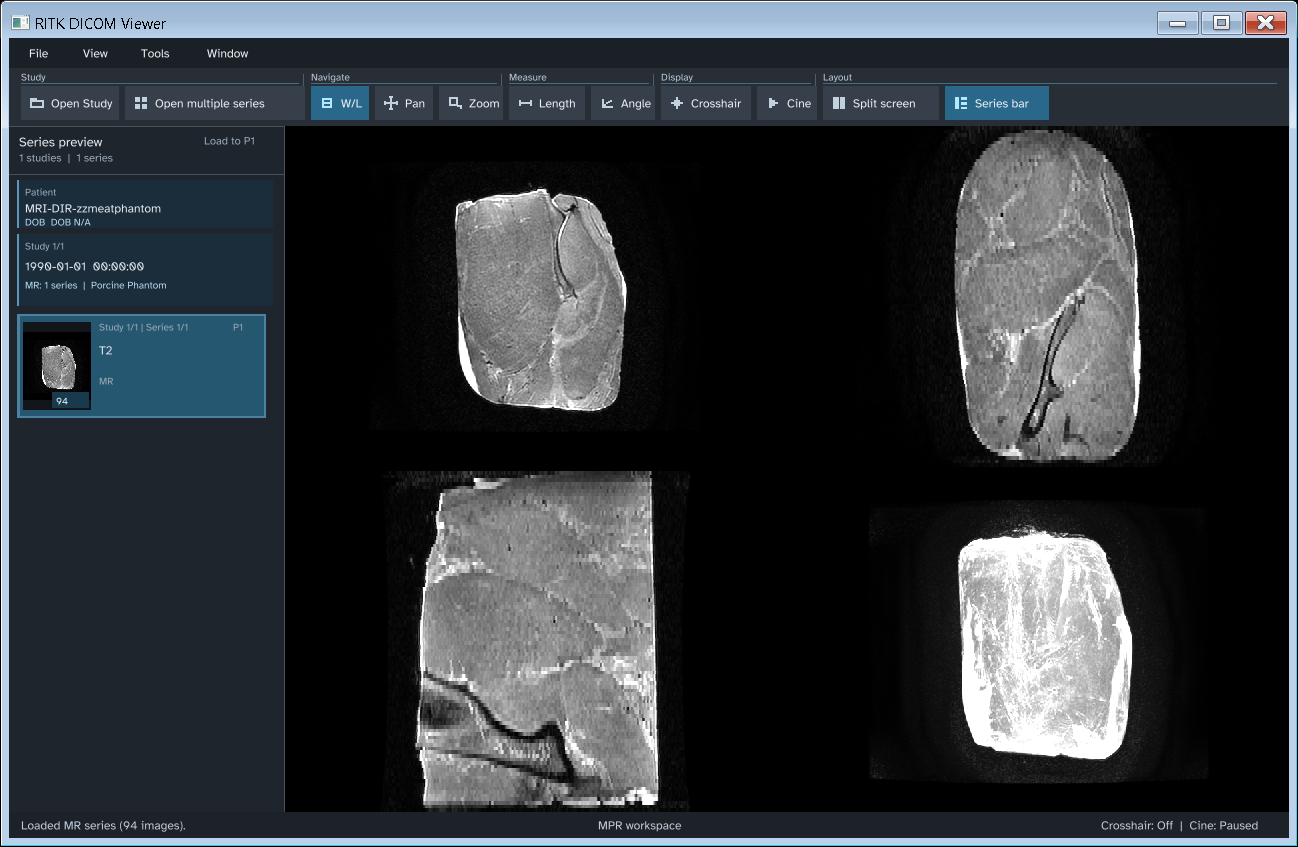
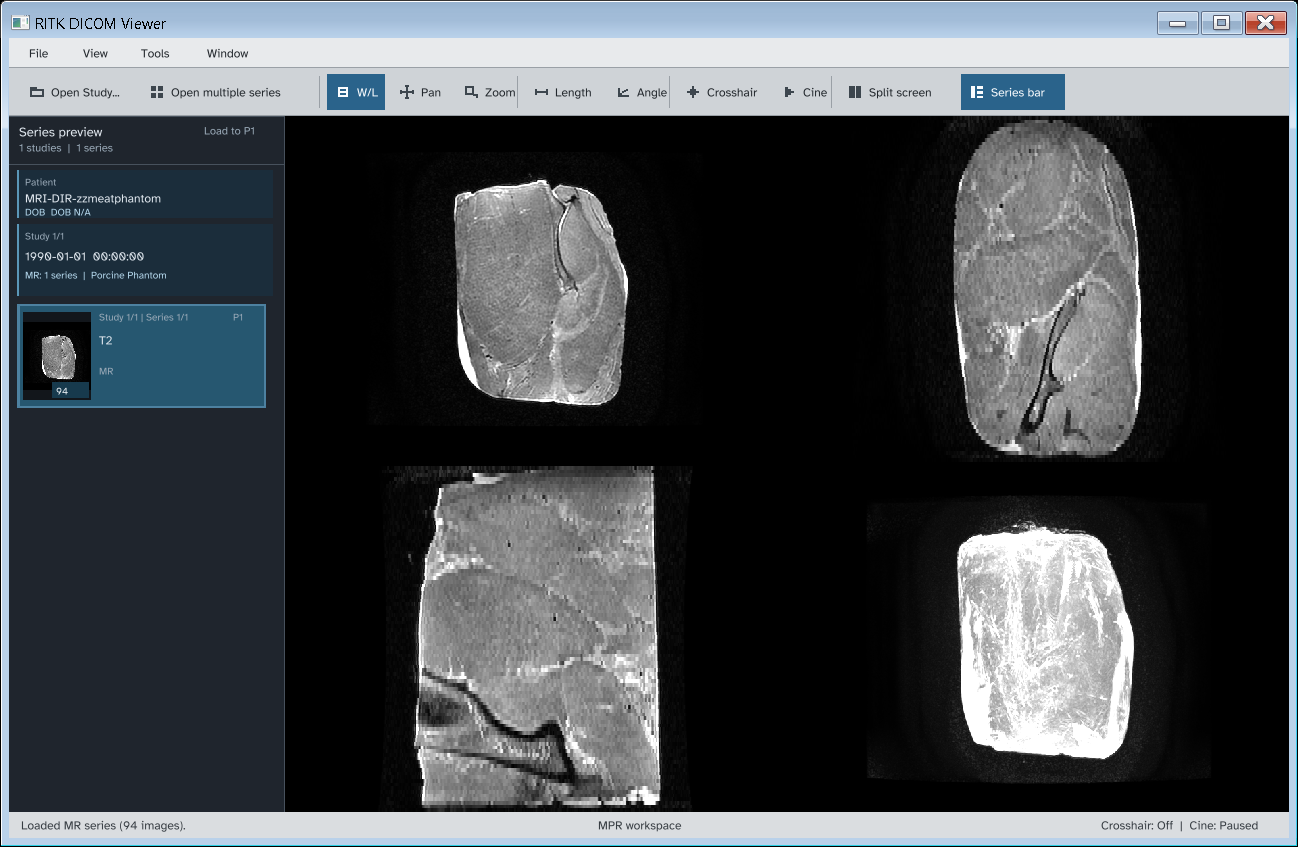
docs(ritk-snap): Capture RadiAnt clone workflows
Item: RITK-SNAP-WINDOW-CONTROLS-001

diff --git a/scripts/tests/test_manual_provenance.py b/scripts/tests/test_manual_provenance.py
@@ -110,6 +110,9 @@ class ManualImageProvenanceTests(unittest.TestCase):
                 )
                 self.assertEqual(output["encoding"], "lossless WebP")
                 self.assertTrue(output["decoded_rgba_byte_equal_to_source_capture"])
+                self.assertEqual(runtime["process_returncode"], 0)
+                self.assertRegex(source_capture["sha256"], r"\A[0-9a-f]{64}\Z")
+                self.assertGreater(source_capture["bytes"], 0)
                 self.assertEqual(
                     source_capture["encoding"],
                     "PNG captured from the live native application window",
@@ -128,8 +131,20 @@ class ManualImageProvenanceTests(unittest.TestCase):
                     "scripts/python_native_capture.py",
                 )
                 self.assertEqual(runtime["ritk_pull_request"], "ryancinsight/ritk#676")
+                self.assertRegex(runtime["ritk_revision"], r"\A[0-9a-f]{40}\Z")
+                self.assertRegex(runtime["ritk_tree"], r"\A[0-9a-f]{40}\Z")
                 self.assertEqual(
                     runtime["capture_utility"]["repository"], "ryancinsight/metis"
+                )
+                self.assertRegex(
+                    runtime["capture_utility"]["file_revision"],
+                    r"\A[0-9a-f]{40}\Z",
+                )
+                self.assertRegex(
+                    runtime["capture_utility"]["sha256"], r"\A[0-9a-f]{64}\Z"
+                )
+                self.assertRegex(
+                    runtime["capture_utility"]["git_blob"], r"\A[0-9a-f]{40}\Z"
                 )
                 self.assertEqual(len(runtime["executable_sha256"]), 64)
                 self.assertGreater(runtime["executable_bytes"], 0)
@@ -138,7 +153,7 @@ class ManualImageProvenanceTests(unittest.TestCase):
                     "View",
                     "Tools",
                     "Window",
-                    "Open Study",
+                    "Open Study...",
                     "Open multiple series",
                     "W/L",
                     "Pan",
@@ -154,16 +169,33 @@ class ManualImageProvenanceTests(unittest.TestCase):
                     expected_controls.extend(["Panel maximize", "Panel close"])
                 expected_controls.extend(["Series preview", "Load to P1"])
                 self.assertEqual(output["visible_controls"], expected_controls)
-                self.assertEqual(
-                    output["toolbar_groups"],
-                    ["Study", "Navigate", "Measure", "Display", "Layout"],
-                )
+                self.assertEqual(output["toolbar_divider_count"], 4)
                 self.assertEqual(output["panels"], panels)
+                self.assertEqual(len(dataset["series"]), series_count)
+                self.assertEqual(
+                    sum(series["instances"] for series in dataset["series"]),
+                    instance_count,
+                )
+                series_uids = [
+                    series["series_instance_uid"] for series in dataset["series"]
+                ]
+                self.assertEqual(len(set(series_uids)), series_count)
+                self.assertEqual(
+                    [series["panel"] for series in dataset["series"]],
+                    [f"P{index}" for index in range(1, series_count + 1)],
+                )
                 if series_count > 1:
                     self.assertIn("--series-instance-uid", runtime["command"])
                     self.assertIn("--compare-series-instance-uid", runtime["command"])
                     self.assertNotIn("input_events", runtime)
                     self.assertIn("two independent image panels", output["visual_scope"])
+                    self.assertEqual(
+                        [
+                            (series["modality"], series["instances"])
+                            for series in dataset["series"]
+                        ],
+                        [("MR", 94), ("CT", 409)],
+                    )
                 if output["panel_actions_visible"]:
                     self.assertEqual(
                         output["visible_annotations"],

diff --git a/docs/manual/dicom-workflow.md b/docs/manual/dicom-workflow.md
@@ -1207,13 +1207,14 @@ tests provide geometry and state evidence; the saved MRI capture below remains
 the anatomical pixel evidence for the public phantom study.
 The first full-window capture shows the live Métis native viewer with the
 public 94-instance MRI-DIR phantom, three orthogonal MPR panes and a fourth
-maximum-intensity projection, File, View, Tools and Window menus, grouped
-toolbar buttons, the vertical study-and-series preview bar on the left of the
-image workspace, and the status bar. The second full-window capture shows MRI
-and CT from the same porcine phantom loaded simultaneously in two independent
-image panels. The left preview bar shows decoded thumbnails, per-series image-count
-badges, and panel assignments. Each panel displays the image number and count,
-window width and centre, and source pixel dimensions in its image corners.
+maximum-intensity projection, File, View, Tools and Window menus, a compact
+toolbar with separated tool groups, the study-and-series preview bar on the
+left of the image workspace, and the status bar. The second full-window
+capture shows MRI and CT from the same porcine phantom loaded simultaneously
+in two independent image panels. The left preview bar shows decoded
+thumbnails, per-series image-count badges, and panel assignments. Each panel
+displays the image number and count, window width and centre, and source pixel
+dimensions in its image corners.
 These readouts track the active series render state. Scanned image counts
 include the frames declared by `NumberOfFrames`; a file without that attribute
 counts as one image. The MRI-DIR phantom series shown here are single-frame,
@@ -1234,22 +1235,23 @@ workflow.
 The shareable captures use the public phantom and contain no clinical patient
 identifiers. In live use, the navigator shows Patient Name when the DICOM
 contains one, plus study and series labels; it does not display Patient ID.
-The controls invoke the viewer’s study, tool, crosshair, cine, series
-navigator, panel layout and reset actions. RITK is a RadiAnt clone for the
-documented native viewing workflow: menus and grouped toolbar, left
-study-and-series preview bar, multi-panel image grid, F4 multi-series picker,
-Ctrl-click and drag assignment, and per-panel maximize/restore/close
-controls. Toolbar groups organize study, navigation, measurement, display and
-layout actions. This clone does not yet provide RadiAnt's configurable
-mouse-button mappings or full image annotation overlays; those parity gaps are
-tracked in the [native viewer work](../../backlog.md#RITK-SNAP-RADIANT-INPUT-001)
-and [oblique MPR work](../../backlog.md#RITK-SNAP-OBLIQUE-NATIVE-001). The
+The controls invoke study loading, image tools, crosshair, cine, series
+navigation, panel layout, and reset actions. RITK is being built as a RadiAnt
+DICOM Viewer clone. This native slice follows its desktop organization: a
+Windows menu bar, compact toolbar with vertical separators between tool
+groups, study-and-series preview bar, multi-panel image grid, F4 multi-series
+picker, Ctrl-click and drag assignment, and per-panel maximize/restore/close
+controls. Study, navigation, measurement, display, and layout actions occupy
+distinct toolbar groups. Configurable mouse-button mappings and the full image
+annotation set remain open parity gaps, tracked in the
+[native viewer work](../../backlog.md#RITK-SNAP-RADIANT-INPUT-001) and
+[oblique MPR work](../../backlog.md#RITK-SNAP-OBLIQUE-NATIVE-001). The
 reference behavior appears in [series browsing](https://www.radiantviewer.com/dicom-viewer-manual/browse_series_and_images.html),
 [multiple-series viewing](https://www.radiantviewer.com/dicom-viewer-manual/view_multiple_series.html),
 and [mouse functions](https://www.radiantviewer.com/dicom-viewer-manual/mouse_functions.html).
-RITK and Métis provide the application branding, rendering and DICOM pixels.
-These are captures of the running application, not annotated framebuffers or
-generated images.
+RITK and Métis provide the application branding, rendering, and DICOM pixels.
+The captures show the running application rather than annotated framebuffers
+or generated images.
 
 From the RITK repository root, build and capture the visible MPR window. Then
 place hard links to the two public series in one temporary folder and capture
@@ -1259,7 +1261,7 @@ the comparison window. The source DICOM files remain unchanged:
 cargo build --locked -p ritk-snap --bin ritk-snap
 $target = (cargo metadata --format-version 1 --no-deps |
   ConvertFrom-Json).target_directory
-$captureOutput = Join-Path $PWD 'scratch\viewer'
+$captureOutput = Join-Path $PWD 'scratch\viewer\radiant-clone'
 New-Item -ItemType Directory -Path $captureOutput -Force | Out-Null
 $atlasRoot = (Get-Item $PWD).Parent.Parent.FullName
 $captureUtility = Join-Path $atlasRoot 'repos\metis\scripts\python_native_capture.py'
@@ -1270,7 +1272,10 @@ python $captureUtility `
   --argument=--metis-native `
   --argument=--metis-native-layout `
   --argument=orthogonal-with-mip `
-  --output scratch\viewer\real-mri-mpr-application-window.png
+  --title 'RITK DICOM Viewer' `
+  --width 1280 `
+  --height 800 `
+  --output scratch\viewer\radiant-clone\real-mri-mpr-application-window.png
 $comparisonStudy = Join-Path $captureOutput ("multiseries-" + [Guid]::NewGuid().ToString("N"))
 New-Item -ItemType Directory -Path $comparisonStudy | Out-Null
 foreach ($source in @(
@@ -1292,12 +1297,15 @@ python $captureUtility `
   --argument=1.3.6.1.4.1.14519.5.2.1.1706.4996.123065603063404191260103927213 `
   --argument=--compare-series-instance-uid `
   --argument=1.3.6.1.4.1.14519.5.2.1.1706.4996.115936088547498980797393821518 `
-  --output scratch\viewer\real-mri-ct-multiseries-window.png
+  --title 'RITK DICOM Viewer' `
+  --width 1280 `
+  --height 800 `
+  --output scratch\viewer\radiant-clone\real-mri-ct-multiseries-window.png
 ```
 
-![Full RITK/Métis viewer window with menus and grouped toolbar buttons above the workspace, a left study-and-series preview bar with thumbnail counts, status bar, three orthogonal RITK MPR panes and one MIP projection, and the real public MRI phantom](images/dicom-metis-real-mri-application-window.webp)
+![Full RITK/Métis viewer window with menus and a compact separated toolbar above the workspace, a left study-and-series preview bar with thumbnail counts, status bar, three orthogonal RITK MPR panes and one MIP projection, and the real public MRI phantom](images/dicom-metis-real-mri-application-window.webp)
 
-![Full RITK/Métis viewer window with menus and grouped toolbar buttons above the workspace, left preview bar showing real MRI and CT thumbnails, image-count badges and panel assignments, status bar, and both actual public series side by side](images/dicom-metis-real-mri-ct-multiseries-window.webp)
+![Full RITK/Métis viewer window with menus and a compact separated toolbar above the workspace, left preview bar showing real MRI and CT thumbnails, image-count badges and panel assignments, status bar, and both actual public series side by side](images/dicom-metis-real-mri-ct-multiseries-window.webp)
 
 The two-panel screenshot shows the current native application with the actual
 94-image MRI and 409-image CT loaded in independent P1 and P2 panels. This
